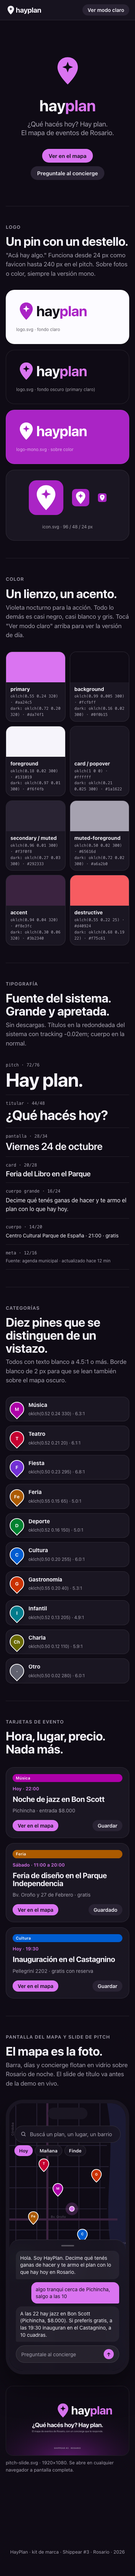
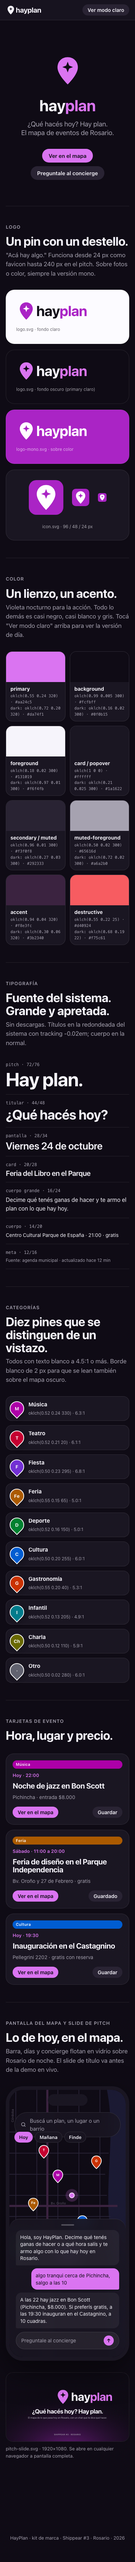
brand: apply editor-rioplatense rewrites to tagline page, microcopy and slide

diff --git a/brand/preview.html b/brand/preview.html
@@ -191,7 +191,7 @@ footer{text-align:center;color:var(--muted-foreground);font-size:13px;padding:40
 
 <section>
   <p class="eyebrow">Tarjetas de evento</p>
-  <h2>Hora, lugar, precio. Nada más.</h2>
+  <h2>Hora, lugar y precio.</h2>
   <div class="cards" style="margin-top:32px">
     <article class="ev"><span class="tag" style="background:var(--category-musica)">Música</span><span class="when">Hoy · 22:00</span><h3>Noche de jazz en Bon Scott</h3><p>Pichincha · entrada $8.000</p><div class="row"><button class="btn sm">Ver en el mapa</button><button class="btn ghost sm">Guardar</button></div></article>
     <article class="ev"><span class="tag" style="background:var(--category-feria)">Feria</span><span class="when">Sábado · 11:00 a 20:00</span><h3>Feria de diseño en el Parque Independencia</h3><p>Bv. Oroño y 27 de Febrero · gratis</p><div class="row"><button class="btn sm">Ver en el mapa</button><button class="btn ghost sm">Guardado</button></div></article>
@@ -201,7 +201,7 @@ footer{text-align:center;color:var(--muted-foreground);font-size:13px;padding:40
 
 <section>
   <p class="eyebrow">Pantalla del mapa y slide de pitch</p>
-  <h2>El mapa es la foto.</h2>
+  <h2>Lo de hoy, en el mapa.</h2>
   <p class="lead">Barra, días y concierge flotan en vidrio sobre Rosario de noche. El slide de título va antes de la demo en vivo.</p>
   <div class="duo" style="margin-top:32px">
     <div class="phone">
@@ -227,11 +227,11 @@ footer{text-align:center;color:var(--muted-foreground);font-size:13px;padding:40
         </g>
         <circle cx="200" cy="300" r="7" fill="#da74f1" stroke="#fff" stroke-width="2"/><circle cx="200" cy="300" r="18" fill="#da74f1" opacity=".2"/>
       </svg>
-      <div class="search"><svg width="16" height="16" viewBox="0 0 24 24" fill="none" stroke="currentColor" stroke-width="2.4" stroke-linecap="round"><circle cx="11" cy="11" r="7"/><path d="m20 20-3.5-3.5"/></svg>Buscá un plan, un lugar, un barrio</div>
+      <div class="search"><svg width="16" height="16" viewBox="0 0 24 24" fill="none" stroke="currentColor" stroke-width="2.4" stroke-linecap="round"><circle cx="11" cy="11" r="7"/><path d="m20 20-3.5-3.5"/></svg>Buscá un plan, un lugar o un barrio</div>
       <div class="days"><span class="on">Hoy</span><span>Mañana</span><span>Finde</span></div>
       <div class="sheet">
         <div class="grab"></div>
-        <div class="msg">Hola. Soy HayPlan. Decime qué tenés ganas de hacer y te armo el plan con lo que hay hoy en Rosario.</div>
+        <div class="msg">Hola, soy HayPlan. Decime qué tenés ganas de hacer o a qué hora salís y te armo algo con lo que hay hoy en Rosario.</div>
         <div class="msg me">algo tranqui cerca de Pichincha, salgo a las 10</div>
         <div class="msg">A las 22 hay jazz en Bon Scott (Pichincha, $8.000). Si preferís gratis, a las 19:30 inauguran en el Castagnino, a 10 cuadras.</div>
         <div class="ask">Preguntale al concierge<span style="margin-left:auto;width:28px;height:28px;border-radius:50%;background:#da74f1;display:grid;place-items:center;color:#0f0b15;font-weight:700">↑</span></div>
@@ -244,7 +244,7 @@ footer{text-align:center;color:var(--muted-foreground);font-size:13px;padding:40
           <rect width="1920" height="1080" fill="#0f0b15"/><rect width="1920" height="1080" fill="url(#g)"/>
           <g transform="translate(760,250) scale(4.6)"><path fill="#da74f1" d="M28 4c-10.5 0-18 7.8-18 18 0 13 18 30 18 30s18-17 18-30c0-10.2-7.5-18-18-18z"/><path fill="#0f0b15" d="M28 12l2.6 6.8 6.8 2.6-6.8 2.6L28 30.8l-2.6-6.8-6.8-2.6 6.8-2.6z"/><text x="56" y="42" font-family="ui-rounded,'SF Pro Rounded','Segoe UI',Inter,system-ui,sans-serif" font-size="40" font-weight="700" letter-spacing="-1" fill="#f6f4fb">hay<tspan fill="#da74f1">plan</tspan></text></g>
           <text x="960" y="640" text-anchor="middle" font-family="ui-rounded,'SF Pro Rounded','Segoe UI',Inter,system-ui,sans-serif" font-size="96" font-weight="700" letter-spacing="-2" fill="#f6f4fb">¿Qué hacés hoy? Hay plan.</text>
-          <text x="960" y="720" text-anchor="middle" font-family="system-ui,sans-serif" font-size="40" fill="#a6a2b0">El mapa de eventos de Rosario, con un concierge que te responde.</text>
+          <text x="960" y="720" text-anchor="middle" font-family="system-ui,sans-serif" font-size="40" fill="#a6a2b0">El mapa de lo que pasa hoy en Rosario, con un chat que te dice qué hacer.</text>
           <text x="960" y="980" text-anchor="middle" font-family="system-ui,sans-serif" font-size="30" font-weight="600" letter-spacing="4" fill="#a6a2b0">SHIPPEAR #3 · ROSARIO</text>
         </svg>
       </div>

diff --git a/brand/README.md b/brand/README.md
@@ -20,17 +20,19 @@ Versión corta para favicon/stores: **Hay plan en Rosario.**
 
 ## Tono de voz
 
+Todas las líneas de abajo pasaron por el editor rioplatense de Cuentas Claras (`antigravity/.claude/agents/editor-rioplatense.md`) el 2026-10-24. Cualquier texto nuevo en español pasa por ahí antes de salir.
+
 1. **Rioplatense, con voseo y sin vergüenza.** "Mirá", "tenés", "dale". Nunca "usted", nunca "haz click".
-   - Nav: `Mapa` · `Hoy` · `Finde` · `Preguntale` · `Guardados`
+   - Nav: `Mapa` · `Hoy` · `Finde` · `Preguntá` · `Guardados`
 2. **Corto, como un mensaje de WhatsApp.** Una idea por línea; el usuario está en la calle con una mano ocupada.
-   - Estado vacío (sin eventos en el filtro): *"Nada por acá todavía. Probá otro día o sacá un filtro."*
-   - Estado vacío (sin guardados): *"Todavía no guardaste nada. Tocá el pin para guardarlo."*
+   - Estado vacío (sin eventos en el filtro): *"No hay nada con esos filtros. Sacá uno o probá otro día."*
+   - Estado vacío (sin guardados): *"Todavía no guardaste nada. Tocá el pin de un evento y queda acá."*
 3. **Concreto, con datos reales.** Siempre hora, lugar y precio si existen. Nunca inventa un evento; si no sabe, dice que no sabe.
-   - Saludo del concierge: *"Hola. Soy HayPlan. Decime qué tenés ganas de hacer (o a qué hora salís) y te armo el plan con lo que hay hoy en Rosario."*
-   - Concierge sin resultados: *"Para eso hoy no encontré nada. ¿Te tiro algo parecido o probamos mañana?"*
+   - Saludo del concierge: *"Hola, soy HayPlan. Decime qué tenés ganas de hacer o a qué hora salís y te armo algo con lo que hay hoy en Rosario."*
+   - Concierge sin resultados: *"Para eso hoy no encontré nada. Si querés te paso algo parecido, o buscamos para mañana."*
 4. **Amable con el error, nunca cómplice del pánico.** Se dice qué pasó y qué hacer, sin códigos ni culpa.
-   - Sin conexión: *"Sin señal. El mapa que ya cargaste sigue ahí; lo nuevo aparece cuando vuelva."*
-   - Error del concierge: *"Se me trabó. Mandá el mensaje de nuevo, por favor."*
+   - Sin conexión: *"Sin conexión. El mapa que ya cargaste sigue ahí y lo nuevo aparece cuando vuelva."*
+   - Error del concierge: *"Se me trabó. Mandá el mensaje de nuevo."*
    - Fuente caída: *"La agenda municipal no responde. Te muestro el resto mientras tanto."*
 5. **Entusiasmo medido.** Un signo de exclamación por pantalla como máximo. Sin emojis en la interfaz (los pines ya son el color). Sin "¡increíble!", sin "¡no te lo pierdas!".
    - Botón principal: `Ver en el mapa` · secundario: `Cómo llegar` · guardar: `Guardar` / `Guardado`
@@ -105,7 +107,7 @@ La referencia visual es la sobriedad de Apple, no su azul. Cinco reglas:
 2. **Titulares grandes y apretados.** Semibold o bold, `letter-spacing: -0.02em`, `line-height: 1.05`. El titular dice una cosa. El párrafo de abajo es gris (`--muted-foreground`) y corto.
 3. **Aire.** Secciones separadas por mucho espacio (80 a 120 px en desktop, 48 en móvil), no por líneas ni cajas. Si dudás, sacá un borde.
 4. **Vidrio, no sombras.** Paneles flotantes (barra de búsqueda, chat del concierge, tarjeta del pin) con fondo translúcido y `backdrop-filter: blur(20px)`, borde de 1 px al 10 %. Esquinas grandes (`--radius` 14 px; 24 px en tarjetas grandes).
-5. **El mapa es la foto.** Como Apple deja que el producto haga el trabajo, acá el mapa de Rosario de noche es la imagen de marca. Nada de ilustraciones ni stock.
+5. **El mapa es la imagen.** Como Apple deja que el producto haga el trabajo, acá el mapa de Rosario de noche es la imagen de marca. Nada de ilustraciones ni stock.
 
 ## Tipografía
 
